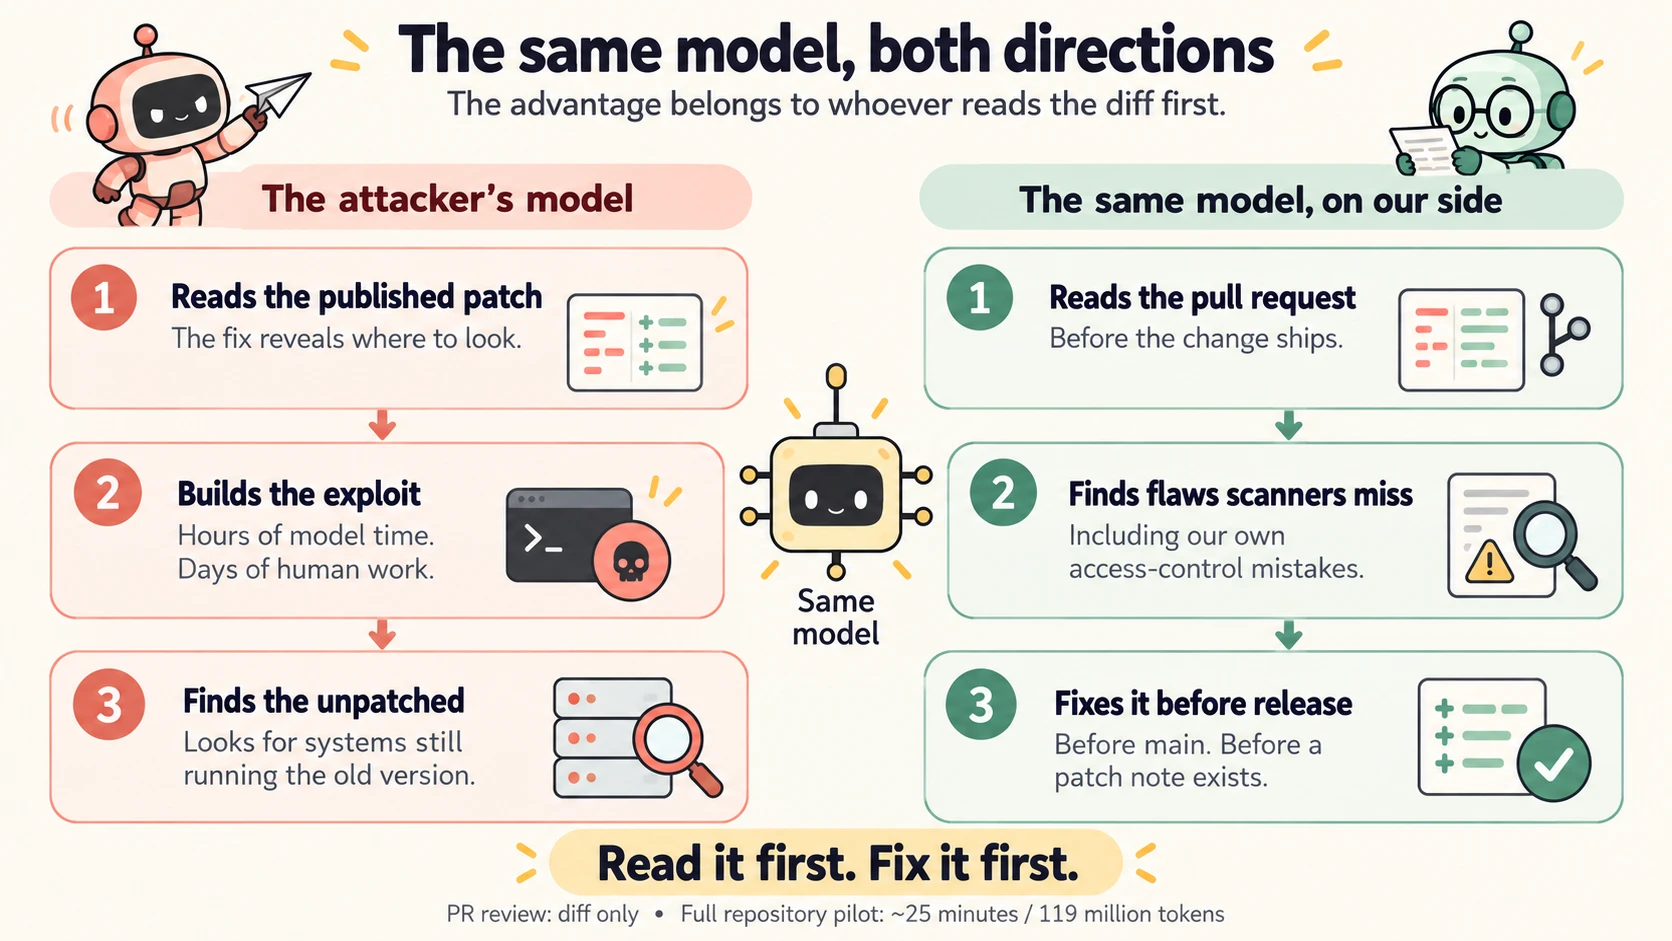
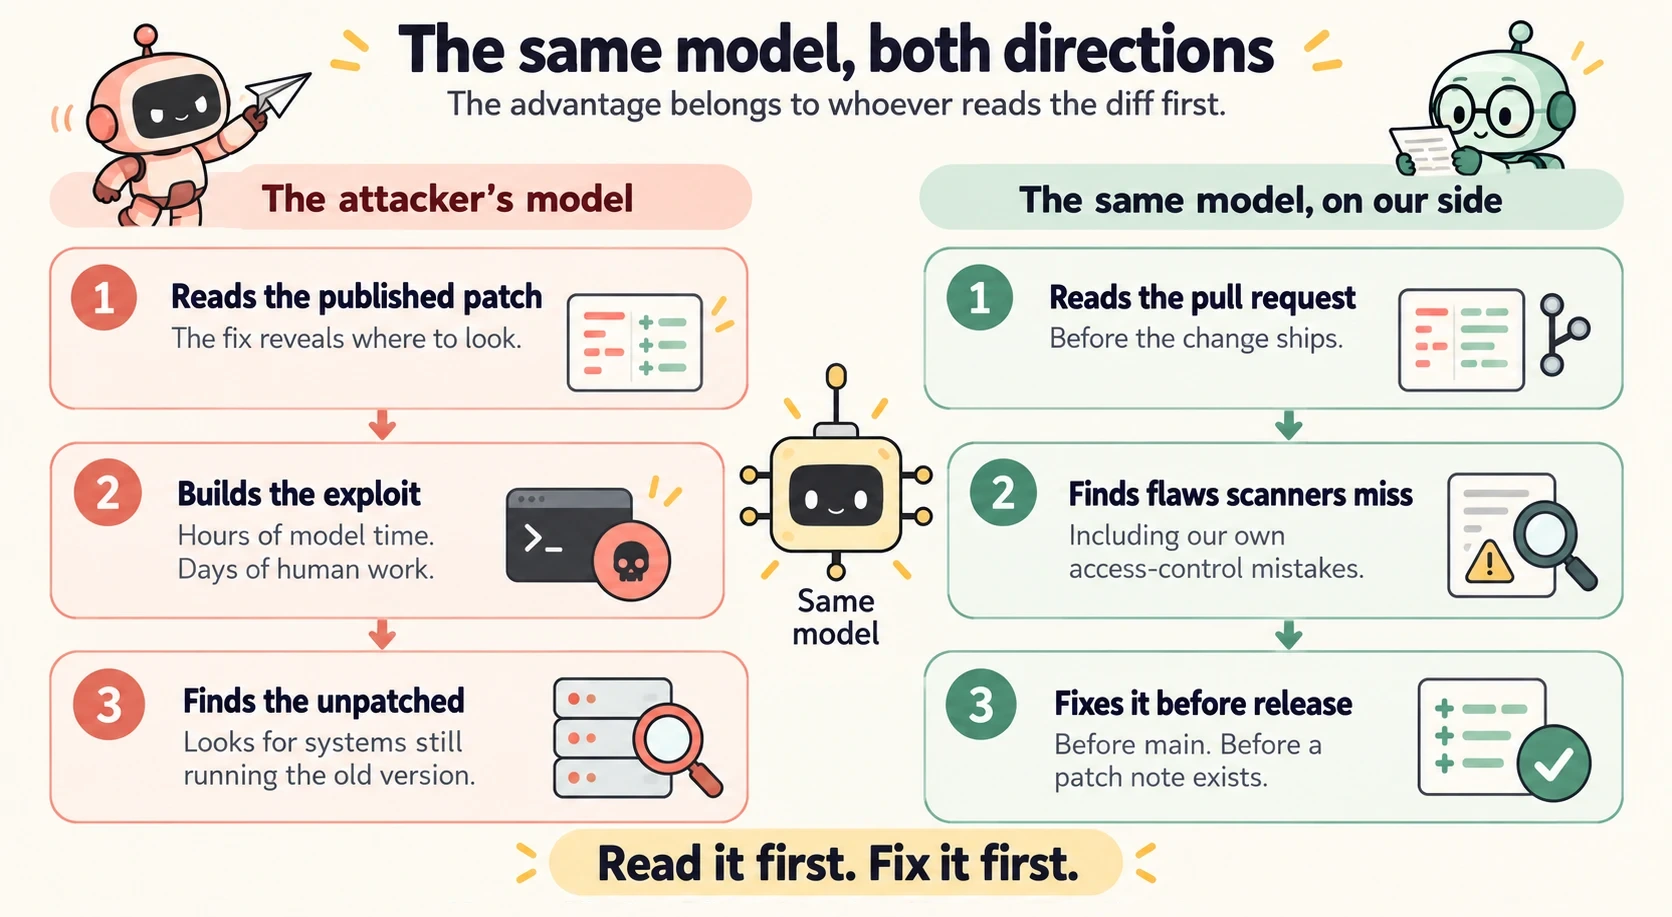
fix(blog): correct The Patch You Do Not Wait For after a full review
Figure 3's footnote ("Full repository pilot: ~25 minutes / 119 million
tokens") is cropped out of the image, and both alts and the image height follow.

A cold review of both languages found claims the post itself did not support:
- the incidents span 14 to 22 October, nine days, not one week;
- the 24-hour Critical clock is a target, not an achieved time;
- Mandiant's falling time-to-exploit predates model-written exploits, so the
  text no longer credits models for it, and Table 2 cites Mandiant rather than
  the incidents;
- our clock starts when an advisory matches something we run, within the hour,
  which Figure 1's caption now says instead of "the moment the patch is published";
- CI gates every merge but is not the only gate (people merge majors and the
  production pin), in the text and in Figure 2;
- a secret finding logs only its file and line, and the GitHub App keys live in
  a secrets store, as the agent-ops design records.
Figure 2 also loses its undefined T1/T2 labels and gains alt text for its
subtitle and footnotes; the zh-TW "我們暴露" line is no longer about us alone.

Changed region(s): [[0.0311, 0.0305, 0.9952, 1.0]]

diff --git a/src/content/blog/the-patch-you-do-not-wait-for.md b/src/content/blog/the-patch-you-do-not-wait-for.md
@@ -2,7 +2,7 @@
 title: 'The Patch You Do Not Wait For'
 pubDate: 2026-10-22
 description:
-  'Six security incidents in one October week: PHP, GitLab, Node.js, LiteLLM, Railway and Zeabur. They share two moves: turn a published fix into an
+  'Six security incidents in nine October days: PHP, GitLab, Node.js, LiteLLM, Railway and Zeabur. They share two moves: turn a published fix into an
   exploit, and steal a key that never expires. Here is how the agent-ops at A40 Labs answers: an exploited or Critical vulnerability gets a pull request within 4 hours and
   reaches production within 24.'
 author: 'Ping-Lin Chang'
@@ -11,19 +11,19 @@ image:
   url: '/blog/the-patch-you-do-not-wait-for/header.svg'
   urlLight: '/blog/the-patch-you-do-not-wait-for/header_light.svg'
   alt:
-    'The race starts when a vendor publishes a security patch. An attacker can have an exploit within hours; our fix runs Scan, Patch, Gate and Release and ships within 24 hours, against an industry median of 43 days.'
+    'The race starts when a vendor publishes a security patch. An attacker can have an exploit within hours; a Critical fix runs Scan, Patch, Gate and Release, with 24 hours as its target.'
 tags: ['engineering', 'security', 'agents']
 ---
 
 In [The Cluster You Do Not Watch](/blog/the-cluster-you-do-not-watch) I described our SRE/Infra agent-ops, which runs most of our infrastructure.
-Before, it only watched two things: whether the cluster was healthy and whether it was wasteful. The week of 14 October added a third question: whether what we
+Before, it only watched two things: whether the cluster was healthy and whether it was wasteful. The incidents of 14 to 22 October added a third question: whether what we
 run is **known to be vulnerable**, and how fast the fix reaches production.
 
-## One week, six incidents
+## Nine days, six incidents
 
 <figure id="table-1" class="table-figure">
 
-| What                                                                                                                  | When      | What happened                                                                                                                                                                                                |
+| Who                                                                                                                   | When      | What happened                                                                                                                                                                                                |
 | --------------------------------------------------------------------------------------------------------------------- | --------- | ------------------------------------------------------------------------------------------------------------------------------------------------------------------------------------------------------------ |
 | [Zeabur](https://zeabur.com/zh-TW/blogs/october-2026-security-incident)                                               | 14–15 Oct | Long-lived admin credentials stored in plain text. The attacker read 3,218,965 environment variables and 321,810 accounts, ran commands in 865 databases, and was mostly after AI API keys.                  |
 | [PHP](https://thephp.foundation/blog/2026/10/21/todays-php-security-release-and-how-were-strengthening-php-security/) | 21 Oct    | Two unauthenticated remote code execution bugs, CVSS 9.2. Fixed in 8.2–8.5; 8.1 and older get no fix. Proof-of-concept code is circulating.                                                                  |
@@ -40,9 +40,9 @@ run is **known to be vulnerable**, and how fast the fix reaches production.
 Strip the product names away and the week has two attacks in it.
 
 **Read the fix, write the exploit.** PHP, GitLab and Node.js all published patches. A patch tells you exactly which lines were wrong, and turning that
-diff into a working exploit used to take a skilled person days. A language model reads a diff and drafts the exploit in a fraction of that, so the gap
-between "the fix exists" and "the exploit exists" is closing: the average time-to-exploit fell from 63 days in 2018–19 to five days in 2023
-([Mandiant, 2024](https://cloud.google.com/blog/topics/threat-intelligence/time-to-exploit-trends-2023)). The gap between "the fix exists" and "the fix is running" has not
+diff into a working exploit used to take a skilled person days. A language model reads a diff and drafts the exploit in a fraction of that. The gap
+between "the fix exists" and "the exploit exists" has been closing for years, from an average time-to-exploit of 63 days in 2018–19 to five
+days in 2023 ([Mandiant, 2024](https://cloud.google.com/blog/topics/threat-intelligence/time-to-exploit-trends-2023)), and models push it further. The gap between "the fix exists" and "the fix is running" has not
 closed at all. A person still has to notice the advisory, file a ticket and wait for a release, and organisations take a median of 43 days to fully
 remediate a vulnerability on CISA's Known Exploited list ([Verizon DBIR, 2026](https://www.verizon.com/business/resources/reports/dbir/)). Everything between those two moments
 is exposure ([Fig. 1](#figure-1)).
@@ -50,7 +50,7 @@ is exposure ([Fig. 1](#figure-1)).
 <figure id="figure-1">
   <img src="/blog/the-patch-you-do-not-wait-for/race_light.svg" class="dark:hidden" alt="A timeline on a log scale from the moment a fix is published to 43 days later. An attacker with a model finishes reading the diff, writing the exploit and scanning within hours. Patching by hand takes a median of 43 days, per the Verizon DBIR 2026: someone reads the news, files a ticket, and waits for a release. The span between the two is shaded red and labelled exposed: the exploit exists, the fix is not running. A40 Labs' row for a Critical ends at one day: a PR in 4 hours, staging in 12, production in 24." />
   <img src="/blog/the-patch-you-do-not-wait-for/race_dark.svg" class="hidden dark:block" alt="A timeline on a log scale from the moment a fix is published to 43 days later. An attacker with a model finishes reading the diff, writing the exploit and scanning within hours. Patching by hand takes a median of 43 days, per the Verizon DBIR 2026: someone reads the news, files a ticket, and waits for a release. The span between the two is shaded red and labelled exposed: the exploit exists, the fix is not running. A40 Labs' row for a Critical ends at one day: a PR in 4 hours, staging in 12, production in 24." />
-  <figcaption>Figure 1. The attacker's clock starts when the patch is published, and so must ours.</figcaption>
+  <figcaption>Figure 1. The attacker's clock starts when the patch is published. Ours starts the moment the advisory matches something we run, within the hour.</figcaption>
 </figure>
 
 **Take the key, not the server.** Zeabur, Railway and LiteLLM were not about a clever bug. They were about a secret that lived too long in a place too
@@ -66,9 +66,9 @@ The CVE loop has the same shape as everything else in our agent-ops: the agent r
 writes, and CI is the gate ([Fig. 2](#figure-2)).
 
 <figure id="figure-2">
-  <img src="/blog/the-patch-you-do-not-wait-for/loop_light.svg" class="dark:hidden" alt="Four cards in a row. Scan: an hourly advisory watch, plus a daily full sweep with trivy, govulncheck and gitleaks; an exploited finding is seen within an hour. Patch: in each repo, on a match, bump the dependency with its own tool and run the repo's checks, one PR per finding. Gate: a same-major bump merges itself on green, a chart or major bump waits for a person; CI is the only gate. Release: staging is automatic, production takes a person, who is paged for a Critical, within 24 hours. A dashed arrow returns to Scan: is the fix on main, in staging, in production?" />
-  <img src="/blog/the-patch-you-do-not-wait-for/loop_dark.svg" class="hidden dark:block" alt="Four cards in a row. Scan: an hourly advisory watch, plus a daily full sweep with trivy, govulncheck and gitleaks; an exploited finding is seen within an hour. Patch: in each repo, on a match, bump the dependency with its own tool and run the repo's checks, one PR per finding. Gate: a same-major bump merges itself on green, a chart or major bump waits for a person; CI is the only gate. Release: staging is automatic, production takes a person, who is paged for a Critical, within 24 hours. A dashed arrow returns to Scan: is the fix on main, in staging, in production?" />
-  <figcaption>Figure 2. The CVE loop. The patch step is an agent; every other step is an ordinary tool.</figcaption>
+  <img src="/blog/the-patch-you-do-not-wait-for/loop_light.svg" class="dark:hidden" alt="Four cards in a row. Scan: an hourly advisory watch, plus a daily full sweep with trivy, govulncheck and gitleaks; an exploited finding is seen within an hour. Patch: in each repo, on a match, bump the dependency with its own tool and run the repo's checks, one PR per finding. Gate: a same-major bump merges itself on green, a major bump waits for a person; CI gates every merge. Release: staging is automatic, production takes a person, who is paged for a Critical, within 24 hours. A dashed arrow returns to Scan: is the fix on main, in staging, in production? Above the cards: every step leaves a pull request or a line in the daily digest, and nothing touches production directly. Two footnotes: a fix that cannot be a pull request goes in the daily digest for the owner to run as one script; a finding is silenced only in one ledger, with a reason and an expiry of at most 90 days." />
+  <img src="/blog/the-patch-you-do-not-wait-for/loop_dark.svg" class="hidden dark:block" alt="Four cards in a row. Scan: an hourly advisory watch, plus a daily full sweep with trivy, govulncheck and gitleaks; an exploited finding is seen within an hour. Patch: in each repo, on a match, bump the dependency with its own tool and run the repo's checks, one PR per finding. Gate: a same-major bump merges itself on green, a major bump waits for a person; CI gates every merge. Release: staging is automatic, production takes a person, who is paged for a Critical, within 24 hours. A dashed arrow returns to Scan: is the fix on main, in staging, in production? Above the cards: every step leaves a pull request or a line in the daily digest, and nothing touches production directly. Two footnotes: a fix that cannot be a pull request goes in the daily digest for the owner to run as one script; a finding is silenced only in one ledger, with a reason and an expiry of at most 90 days." />
+  <figcaption>Figure 2. The CVE loop. Only the patch step is an agent; the rest is ordinary tooling, and a person merges what reaches production.</figcaption>
 </figure>
 
 - **Scan.** An hourly watch reads CISA's Known Exploited Vulnerabilities list and the GitHub and OSV advisory feeds, and matches each new advisory
@@ -93,14 +93,14 @@ writes, and CI is the gate ([Fig. 2](#figure-2)).
 | Medium                            | 7 days        | 30 days              | next release  |
 | Low                               | monthly batch | the month            | next release  |
 
-<figcaption>Table 2. The clock starts when an advisory first matches something we run, not when someone notices it. Exploited means on CISA's list or with a public proof-of-concept. A Critical gets 24 hours because, as the incidents above show, an exploit now follows a patch within days.</figcaption>
+<figcaption>Table 2. The clock starts when an advisory first matches something we run, not when someone notices it. Exploited means on CISA's list or with a public proof-of-concept. A Critical gets 24 hours because an exploit now follows a patch within days: Mandiant's average time-to-exploit was five days in 2023.</figcaption>
 </figure>
 
 For the second move, the keys: push protection refuses a committed credential at GitHub before it lands, even from a laptop that skipped its hooks,
-and gitleaks reads every pull request behind it. The scanner itself holds no long-lived key in a file: it signs in as two GitHub Apps, one that can
-only read code and one that can only post the scan results, and it reads the registry with short-lived tokens through workload identity
-federation, so no cloud key exists to steal. A secret finding never goes into a report, a pull request or Slack. It goes into the run log, and the
-owner rotates it.
+and gitleaks reads every pull request behind it. The scanner itself keeps no long-lived key on disk: it signs in as two GitHub Apps, one that can
+only read code and one that can only post the scan results, whose private keys stay in a secrets store, and it reads the registry with short-lived tokens through workload identity
+federation, so no cloud key exists to steal. A secret finding never goes into a report, a pull request or Slack. The run log records only its file and line, never
+the value, and the owner rotates it.
 
 ## The same model, on our side
 
@@ -110,7 +110,7 @@ Strix reads a repository the size of our backend in about 25 minutes, and it fin
 would catch too. The rest are access-control bugs we wrote ourselves, which no CVE scanner can ever see. Those are the reason we run it.
 
 <figure id="figure-3">
-  <img src="/blog/the-patch-you-do-not-wait-for/mirror.webp" width="1672" height="941" class="rounded-lg border border-[#d8d7cd] dark:border-[#3a3a4e]" alt="Two cartoon robots face each other across a small central robot labelled same model. Left, in red, the attacker's model: reads the published patch, the fix reveals where to look; builds the exploit, hours of model time, days of human work; finds the unpatched, looking for systems still running the old version. Right, in green, the same model on our side: reads the pull request before the change ships; finds flaws scanners miss, including our own access-control mistakes; fixes it before release, before main and before a patch note exists. A banner reads: read it first, fix it first. A footnote: PR review, diff only; a full repository read, about 25 minutes and 119 million tokens." />
+  <img src="/blog/the-patch-you-do-not-wait-for/mirror.webp" width="1672" height="917" class="rounded-lg border border-[#d8d7cd] dark:border-[#3a3a4e]" alt="Two cartoon robots face each other across a small central robot labelled same model. Left, in red, the attacker's model: reads the published patch, the fix reveals where to look; builds the exploit, hours of model time, days of human work; finds the unpatched, looking for systems still running the old version. Right, in green, the same model on our side: reads the pull request before the change ships; finds flaws scanners miss, including our own access-control mistakes; fixes it before release, before main and before a patch note exists. A banner reads: read it first, fix it first." />
   <figcaption>Figure 3. The same model, both directions. The advantage belongs to whoever reads the diff first.</figcaption>
 </figure>
 
@@ -118,4 +118,4 @@ would catch too. The rest are access-control bugs we wrote ourselves, which no C
 
 GitLab's bug, code execution without a login, had been there since version 7.0 in 2014 and was only patched this month.
 Whether a bug like that gets written is beyond our CVE loop. What the loop controls is how long we keep running the
-vulnerable version once the patch is out: for a Critical, 24 hours against an industry median of 43 days.
+vulnerable version once the patch is out. For a Critical, our target is 24 hours; the industry median is 43 days.
